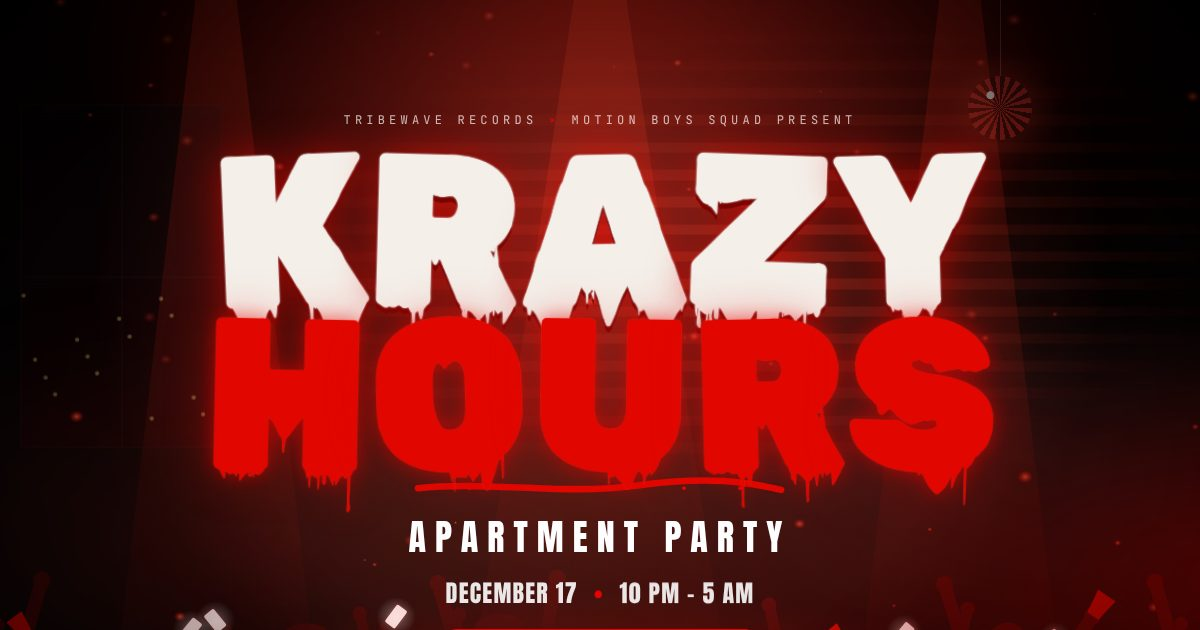
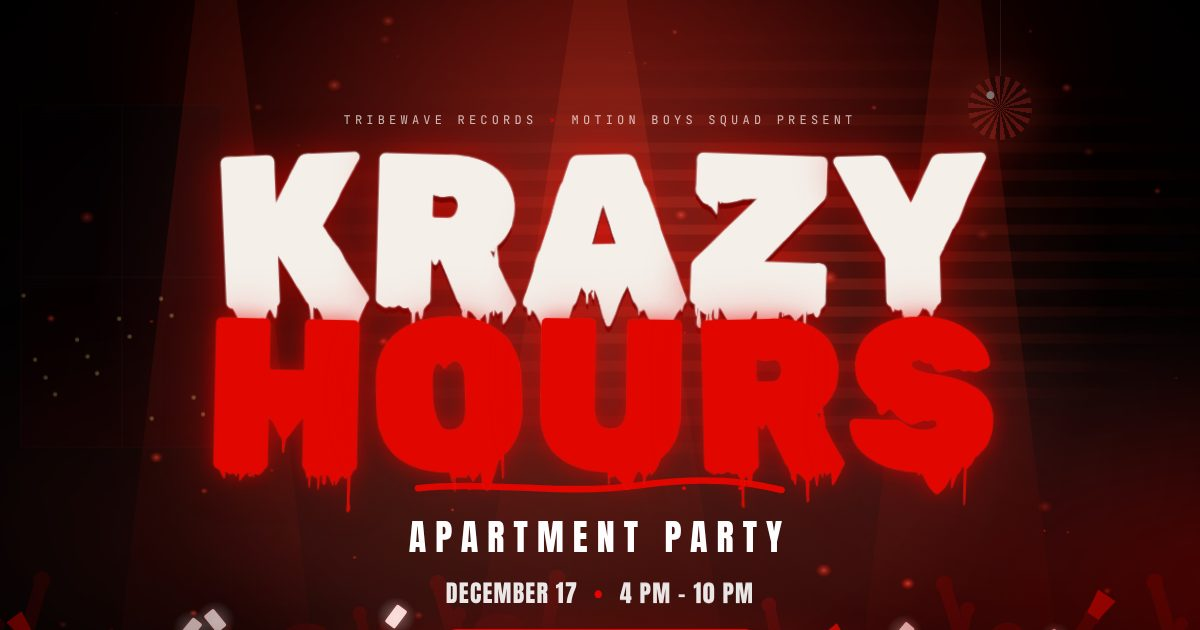
Change event time to 4 PM – 10 PM

diff --git a/krazy-hours/src/components/site/EventInfo.tsx b/krazy-hours/src/components/site/EventInfo.tsx
@@ -8,8 +8,8 @@ import { useStatus } from "./useStatus";
 const ease = [0.16, 1, 0.3, 1] as const;
 
 const baseCards = [
-  { k: "Date", big: "17", sub: "December", note: "Thursday night", icon: "M7 3v3M17 3v3M4 9h16M5 5h14a1 1 0 011 1v13a1 1 0 01-1 1H5a1 1 0 01-1-1V6a1 1 0 011-1z" },
-  { k: "Time", big: "10PM", sub: "till 5AM", note: "7 hours non-stop", icon: "M12 7v5l3 2M12 21a9 9 0 100-18 9 9 0 000 18z" },
+  { k: "Date", big: "17", sub: "December", note: "Thursday", icon: "M7 3v3M17 3v3M4 9h16M5 5h14a1 1 0 011 1v13a1 1 0 01-1 1H5a1 1 0 01-1-1V6a1 1 0 011-1z" },
+  { k: "Time", big: "4PM", sub: "till 10PM", note: "6 hours non-stop", icon: "M12 7v5l3 2M12 21a9 9 0 100-18 9 9 0 000 18z" },
   { k: "Capacity", big: "", sub: "People only", note: "Once it's full, it's full", icon: "M17 20v-1a4 4 0 00-4-4H7a4 4 0 00-4 4v1M10 11a4 4 0 100-8 4 4 0 000 8zM21 20v-1a4 4 0 00-3-3.9M16 3.1a4 4 0 010 7.8" },
 ];
 

diff --git a/krazy-hours/src/app/layout.tsx b/krazy-hours/src/app/layout.tsx
@@ -13,10 +13,10 @@ export const metadata: Metadata = {
   metadataBase: new URL(siteUrl),
   title: "KRAZY HOURS — Apartment Party · Dec 17 · Only 35 People",
   description:
-    "TribeWave Records × Motion Boys Squad present KRAZY HOURS — an apartment party in Isheri, Lagos. December 17, 10 PM – 5 AM. Only 35 people allowed. Register now.",
+    "TribeWave Records × Motion Boys Squad present KRAZY HOURS — an apartment party in Isheri, Lagos. December 17, 4 PM – 10 PM. Only 35 people allowed. Register now.",
   openGraph: {
     title: "KRAZY HOURS — Apartment Party",
-    description: "Dec 17 · 10 PM – 5 AM · Isheri, Lagos · Only 35 people allowed.",
+    description: "Dec 17 · 4 PM – 10 PM · Isheri, Lagos · Only 35 people allowed.",
     type: "website",
     images: [{ url: "/og.jpg", width: 1200, height: 630, alt: "KRAZY HOURS apartment party" }],
   },

diff --git a/krazy-hours/src/lib/event.ts b/krazy-hours/src/lib/event.ts
@@ -5,10 +5,10 @@ export const EVENT = {
   presenters: ["TribeWave Records", "Motion Boys Squad"],
   dateLabel: "December 17",
   dateLong: "Thursday, 17 December 2026",
-  timeLabel: "10 PM – 5 AM",
-  // 10 PM Lagos time (WAT, UTC+1)
-  startsAt: "2026-12-17T22:00:00+01:00",
-  endsAt: "2026-12-18T05:00:00+01:00",
+  timeLabel: "4 PM – 10 PM",
+  // 4 PM Lagos time (WAT, UTC+1)
+  startsAt: "2026-12-17T16:00:00+01:00",
+  endsAt: "2026-12-17T22:00:00+01:00",
   capacity: 35, // fallback only — the live number comes from the database
   address: "Road 13, Block 13, Diamond Estate, Isheri, opposite Jendol Supermarket",
   mapsQuery: "Diamond Estate Isheri opposite Jendol Supermarket, Lagos, Nigeria",

diff --git a/krazy-hours/src/components/site/Expect.tsx b/krazy-hours/src/components/site/Expect.tsx
@@ -88,7 +88,7 @@ function More() {
 }
 
 const items = [
-  { key: "drinks", title: "Drinks", copy: "Cold bottles, mixes and shots flowing all night.", Art: Drinks },
+  { key: "drinks", title: "Drinks", copy: "Cold bottles, mixes and shots flowing all day into the night.", Art: Drinks },
   { key: "music", title: "Music", copy: "Afrobeats, amapiano & street anthems — loud.", Art: Music },
   { key: "games", title: "Games", copy: "Cards, dares and party games that get krazy.", Art: Games },
   { key: "performances", title: "Performances", copy: "Live sets and surprise acts from the squad.", Art: Performances },

diff --git a/krazy-hours/src/components/site/Countdown.tsx b/krazy-hours/src/components/site/Countdown.tsx
@@ -57,7 +57,7 @@ export default function Countdown({ compact = false }: { compact?: boolean }) {
   }
   const vals = t ?? { d: 0, h: 0, m: 0, s: 0 };
   return (
-    <div className={`flex items-start gap-2 sm:gap-3 ${compact ? "scale-90" : ""}`} role="timer" aria-label="Countdown to December 17, 10 PM">
+    <div className={`flex items-start gap-2 sm:gap-3 ${compact ? "scale-90" : ""}`} role="timer" aria-label="Countdown to December 17, 4 PM">
       <Digit value={vals.d} label="Days" />
       <span className="pt-2 font-display text-2xl text-blood sm:pt-3">:</span>
       <Digit value={vals.h} label="Hrs" />

diff --git a/krazy-hours/src/components/site/Nav.tsx b/krazy-hours/src/components/site/Nav.tsx
@@ -117,7 +117,7 @@ export default function Nav() {
                 Register now
               </a>
               <p className="text-center font-mono text-[10px] uppercase tracking-[0.3em] text-white/40">
-                Dec 17 · 10PM–5AM · Isheri
+                Dec 17 · 4PM–10PM · Isheri
               </p>
             </motion.div>
           </motion.div>

diff --git a/krazy-hours/README.md b/krazy-hours/README.md
@@ -2,7 +2,7 @@
 
 Event site, ticket booking, PalmPay bank-transfer checkout, digital tickets and an
 organiser dashboard for **KRAZY HOURS** (TribeWave Records × Motion Boys Squad),
-December 17, 10 PM – 5 AM, Isheri, Lagos. Limit: 35 people.
+December 17, 4 PM – 10 PM, Isheri, Lagos. Limit: 35 people.
 
 **Stack:** Next.js 15 (App Router) on Cloudflare Workers (OpenNext) · React 19 · Tailwind CSS · Framer Motion · GSAP
 ScrollTrigger · Lenis smooth scroll · Supabase (Postgres, Auth, private Storage).
